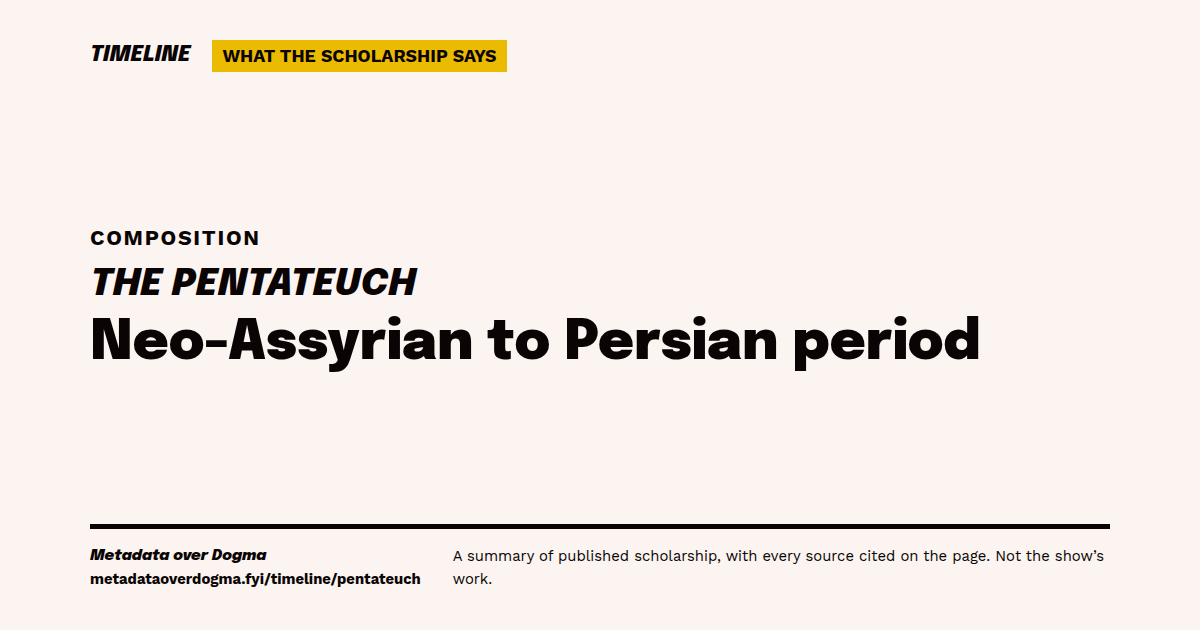
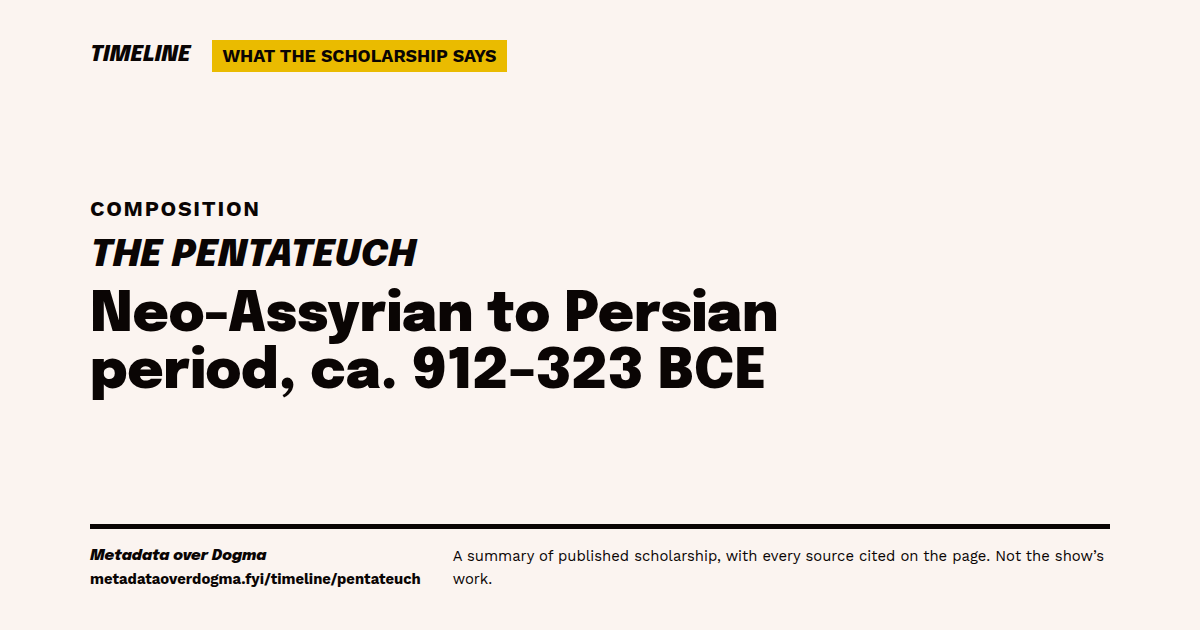
Timeline: every Critical Date names a year; exilic entries sit under Babylonian rule, which names the Exile (#276)
- check:timeline fails a Critical Date display with no year or century.
- Pentateuch and Priestly source displays gain their cited years; cards re-rendered.
- Iron Age/Babylonian/Exile boundary moves to 587 (the fall's own year), so
  entries dated from the fall file under Babylonian rule, not Iron Age.
- An age era that opens with a temple period names it on the axis and pill.
- Era label wraps on phones.

Changed region(s): [[0.0617, 0.3016, 0.8325, 0.6333]]

diff --git a/src/hugo/timeline-minimap.test.ts b/src/hugo/timeline-minimap.test.ts
@@ -128,10 +128,14 @@ function packing(html: string) {
       lane: v["tick-lane"]!,
       overflow: "data-overflow" in t.attrs,
       split: "data-pair-split" in t.attrs,
-      y: Math.min(
-        Math.max(v["tick-at"]!, v["era-start"]! + edge!),
-        v["era-end"]! - edge!,
-      ),
+      // As the template: a band narrower than two edges puts its ticks at its middle.
+      y:
+        v["era-end"]! - v["era-start"]! < 2 * edge!
+          ? (v["era-start"]! + v["era-end"]!) / 2
+          : Math.min(
+              Math.max(v["tick-at"]!, v["era-start"]! + edge!),
+              v["era-end"]! - edge!,
+            ),
     };
   });
   const shared: string[] = [];
@@ -280,15 +284,17 @@ describe.skipIf(!hasHugo)("Timeline minimap", () => {
       ["david-and-solomon", 0, 0],
       ["deuteronomy", 9, 5],
       ["judges-dtr", 0, 0],
-      ["fall-of-jerusalem", 1, 1],
-      ["lamentations", 2, -1],
-      ["priestly-genesis-1", 3, 2],
+      // The three from 587 BCE open Babylonian rule (#276), a band narrower
+      // than two edges, so they sit at its middle, clear of Judges.
+      ["fall-of-jerusalem", 0, 0],
+      ["lamentations", 1, 1],
+      ["priestly-genesis-1", 2, -1],
       // Daniel's pair (540 and 167 BCE) is clear of Deuteronomy's corridor,
       // so it shares place 5.
       ["daniel-tradition", 9, 5],
       // Isaiah 56–66 (515 BCE) is in the Persian era (#256), nudged in from
       // its edge at 539 BCE, clear of Judges (622 BCE) and the three at 587
-      // BCE in the Iron Age: the centre place is free.
+      // BCE in Babylonian rule: the centre place is free.
       ["isaiah-56-66", 0, 0],
       ["daniel", 9, 5],
     ]);
@@ -364,18 +370,19 @@ describe.skipIf(!hasHugo)("Timeline minimap", () => {
       ["era-5000-bce", "5000–3000 BCE"],
       ["era-bronze-age", "Bronze Age ca. 3000–1200 BCE"],
       ["era-iron-age", "Iron Age ca. 1200–586 BCE"],
-      ["era-babylonian", "Babylonian rule 587 or 586–539 BCE"],
+      // The Exile starts with Babylonian rule, so its heading names it (#276).
+      ["era-babylonian", "Babylonian rule 587 or 586–539 BCE Exile"],
       ["era-persian", "Persian 539–332 BCE"],
       ["era-hellenistic", "Hellenistic 332–63 BCE"],
       ["era-roman", "Roman from 63 BCE"],
     ]);
     // An entry is in the era whose years hold its placement year: the fall of
-    // Jerusalem (587 BCE) closes the Iron Age (to 586); Daniel (167 BCE) is Hellenistic.
+    // Jerusalem (587 BCE) opens Babylonian rule (from 587, #276); Daniel (167 BCE) is Hellenistic.
     const eraOf = (id: string) =>
       select(page, `.timeline-minimap__spy a[href="#${id}"]`)[0]?.attrs[
         "data-entry-era"
       ];
-    expect(eraOf("fall-of-jerusalem")).toBe("era-iron-age");
+    expect(eraOf("fall-of-jerusalem")).toBe("era-babylonian");
     expect(eraOf("isaiah-56-66")).toBe("era-persian");
     expect(eraOf("daniel")).toBe("era-hellenistic");
   });
@@ -404,12 +411,12 @@ describe.skipIf(!hasHugo)("Timeline minimap", () => {
       {
         era: "era-iron-age",
         start: fixtureAt(-1200),
-        end: fixtureAt(-586),
+        end: fixtureAt(-587),
         compressed: false,
       },
       {
         era: "era-babylonian",
-        start: fixtureAt(-586),
+        start: fixtureAt(-587),
         end: fixtureAt(-539),
         compressed: false,
       },
@@ -513,7 +520,7 @@ describe.skipIf(!hasHugo)("Timeline minimap", () => {
       "5000 BCE",
       "3000 BCE",
       "1200 BCE",
-      "586 BCE",
+      "587 BCE",
       "539 BCE",
       "332 BCE",
       "63 BCE",
@@ -786,7 +793,7 @@ describe.skipIf(!hasHugo)("Timeline minimap", () => {
 
     // The arc joins the span's middle to the dot: at its year, in its band
     // and in its slot, which the setting carries too, so the span follows a
-    // dot shifted along its row (#175): Lamentations' dot is in slot 2.
+    // dot shifted along its row (#175): Lamentations' dot is in slot 1.
     const arc = vars(
       select(page, '[data-setting="daniel"] .timeline-minimap__setting-arc')[0],
     );
@@ -808,8 +815,8 @@ describe.skipIf(!hasHugo)("Timeline minimap", () => {
         "tick-slot": slot!,
       });
     }
-    expect(vars(settings[0])["tick-slot"]).toBe(2);
-    expect(vars(settings[0])["tick-lane"]).toBe(-1);
+    expect(vars(settings[0])["tick-slot"]).toBe(1);
+    expect(vars(settings[0])["tick-lane"]).toBe(1);
   });
 
   test("the minimap script loads once, from the footer scripts, not inside the minimap", () => {

diff --git a/hugo/layouts/partials/timeline-eras.html b/hugo/layouts/partials/timeline-eras.html
@@ -8,12 +8,14 @@
   after the last, if it ends) is an era named only by its years. The age
   periods must meet end to start, oldest first: a gap or overlap fails the
   build.
-  Returns a slice of dict {label, dates, period, from, to, compressed, items},
+  Returns a slice of dict {label, dates, period, from, to, compressed, items,
+  opens},
   oldest first: label is the period's name or, for a span with no period, its
   years ("5000–3000 BCE"); dates is the period's display dates ("" for a span);
   period its id. compressed marks the span before the first period, which the
   minimap may draw short. items keep placement order. Empty when nothing is
-  placed.
+  placed. opens lists the temple-track periods that start where a period era
+  starts ("Exile" with Babylonian rule), so the axis names them (#276).
   */
 -}}
 {{- $placed := . -}}
@@ -28,6 +30,7 @@
   {{- $start := int (mul (math.Floor (div (float (math.Min $years)) $wide)) $wide) -}}
   {{- $end := int (mul (add (math.Floor (div (float (math.Max $years)) $narrow)) 1) $narrow) -}}
   {{- $ages := sort (where (hugo.Data.timeline.periods | default slice) "track" "age") "from" -}}
+  {{- $temples := where (hugo.Data.timeline.periods | default slice) "track" "temple" -}}
   {{- $bounds := slice -}}
   {{- $at := $start -}}
   {{- range $i, $p := $ages -}}
@@ -69,7 +72,11 @@
         {{- $items = $items | append . -}}
       {{- end -}}
     {{- end -}}
-    {{- $eras = $eras | append (dict "label" $label "dates" (.dates | default "") "period" (.period | default "") "from" $from "to" $to "compressed" (.compressed | default false) "items" $items) -}}
+    {{- $opens := slice -}}
+    {{- if .period -}}
+      {{- $opens = where $temples "from" $from -}}
+    {{- end -}}
+    {{- $eras = $eras | append (dict "label" $label "dates" (.dates | default "") "period" (.period | default "") "from" $from "to" $to "compressed" (.compressed | default false) "items" $items "opens" $opens) -}}
   {{- end -}}
 {{- end -}}
 {{- return $eras -}}

diff --git a/hugo/layouts/partials/timeline-minimap.html b/hugo/layouts/partials/timeline-minimap.html
@@ -125,7 +125,7 @@
   {{- $eraEnd := partial "inline/timeline-minimap-at.html" (dict "axis" $axis "year" .to) -}}
   {{- /* The band's start year, for the rail's label column: 1200 BCE, 1 CE. With its era: a period may run across year 0 (#256). */ -}}
   {{- $startYear := cond (lt (int .from) 0) (printf "%d BCE" (sub 0 (int .from))) (printf "%d CE" (cond (eq (int .from) 0) 1 (int .from))) -}}
-  {{- $bands = $bands | append (dict "id" $eraId "label" .label "dates" .dates "start" $eraStart "end" $eraEnd "empty" (not .items) "compressed" .compressed "startYear" $startYear) -}}
+  {{- $bands = $bands | append (dict "id" $eraId "label" .label "dates" .dates "start" $eraStart "end" $eraEnd "empty" (not .items) "compressed" .compressed "startYear" $startYear "opens" .opens) -}}
   {{- range .items -}}
     {{- $p := .page.Params -}}
     {{- $date := "" -}}
@@ -344,6 +344,10 @@
         <span class="timeline-minimap__now" data-now="{{ .id }}"
           ><b>{{ .label }}</b>{{ with .dates }}
             <span class="timeline-minimap__now-dates"> {{ . }}</span>
+          {{ end }}{{ range .opens }}
+            <span class="timeline-minimap__now-dates timeline-era__opens"
+              >{{ .label }}</span
+            >
           {{ end }}</span
         >
       {{- end }}

diff --git a/hugo/assets/css/timeline.css b/hugo/assets/css/timeline.css
@@ -183,6 +183,18 @@
   margin-inline-start: 0.4em;
 }
 
+/* A temple period that starts with the era (#276): after a dot, as quiet as the dates. */
+.timeline-era__opens {
+  color: var(--color-text-muted);
+  font-weight: normal;
+}
+
+.timeline-era__opens::before {
+  content: "·";
+  display: inline-block;
+  margin-inline: 0.4em;
+}
+
 .timeline-era__entries {
   gap: var(--space-s);
 }
@@ -535,9 +547,12 @@
     --axis-at: calc(var(--space-m) / 2);
   }
 
+  /* May wrap: with a temple period named (#276) it can outrun a phone's width. */
   .timeline-era__label {
     margin-inline-start: 0;
+    max-inline-size: 100%;
     translate: none;
+    white-space: normal;
   }
 
   .timeline-entry {

diff --git a/hugo/layouts/partials/timeline-body.html b/hugo/layouts/partials/timeline-body.html
@@ -144,6 +144,12 @@
                 >{{ with .dates }}
                   <span class="timeline-era__dates"> {{ . }}</span>
                 {{ end }}
+                {{- /* A temple period that starts with the era, named so "exilic" has a place on the axis (#276); its dates and cites are under Periods. */ -}}
+                {{ range .opens }}
+                  <a class="timeline-era__opens" href="#period-{{ .id }}"
+                    >{{ .label }}</a
+                  >
+                {{ end }}
               </h2>
               {{ with .items }}
                 <ol class="timeline-era__entries" role="list">

diff --git a/src/hugo/check-timeline.ts b/src/hugo/check-timeline.ts
@@ -201,6 +201,13 @@ function checkEntry(
     errors.push(`${at}: has neither critical nor undated; give one`);
   }
 
+  // A reader places a card by its year or century, not a period name alone (#276).
+  if (entry.critical && !/\d/.test(entry.critical.display)) {
+    errors.push(
+      `${at}: critical display "${entry.critical.display}" names no year or century; add the cited years`,
+    );
+  }
+
   for (const [field, target] of links(entry)) {
     if (!entries.has(target)) {
       errors.push(`${at}: ${field} "${target}" names no entry`);

diff --git a/src/hugo/check-timeline.test.ts b/src/hugo/check-timeline.test.ts
@@ -194,6 +194,12 @@ describe("checkTimeline", () => {
     expect(await check("published-undated")).toEqual([]);
   });
 
+  test("fails a Critical Date whose display names no year or century (#276)", async () => {
+    expect(await check("critical-no-year")).toEqual([
+      `timeline/book: critical display "Exilic period" names no year or century; add the cited years`,
+    ]);
+  });
+
   test("a Critical Date with no precision passes", async () => {
     expect(await check("critical-no-precision")).toEqual([]);
   });

diff --git a/hugo/assets/css/timeline-minimap.css b/hugo/assets/css/timeline-minimap.css
@@ -405,6 +405,11 @@
   margin-inline-start: 0.4em;
 }
 
+/* A temple period the era opens (#276): its "·" (timeline.css) carries the space. */
+.timeline-minimap__now-dates.timeline-era__opens {
+  margin-inline-start: 0;
+}
+
 .timeline-minimap__now {
   -webkit-box-orient: vertical;
   display: none;

diff --git a/hugo/content/timeline/pentateuch.md b/hugo/content/timeline/pentateuch.md
@@ -18,11 +18,11 @@ watch:
     Wellhausen,
   ]
 critical:
-  display: "Neo-Assyrian to Persian period"
+  display: "Neo-Assyrian to Persian period, ca. 912–323 BCE"
   from: -912
   to: -323
   precision: period
-  note: "The dates are for the whole process of composition and editing, with the final collection at its end. Schmid gives a span from the 9th or 8th century to the 4th century BCE for the composition of the Torah, and says the Pentateuch seems to be, in essence, pre-Hellenistic. Schorch writes that many scholars agree its text was completed, more or less in the version known today, in the Persian period, a conclusion originally drawn mainly from literary and religious history that received further support from text-historical study of the Dead Sea Scrolls. Ska says many scholars agree that the Pentateuch as such was composed late, in the Persian period; he adds that some of its elements come from the pre-exilic period. Hayes puts its final form, probably, in the exilic to post-exilic periods. The Encyclopaedia Judaica entry has the addition of Genesis through Numbers accomplished by the mid-5th century BCE."
+  note: "The dates are for the whole process of composition and editing, with the final collection at its end. Nihan and Rhyder date that process from the Neo-Assyrian period (ca. 912–612 BCE) to the Persian period (ca. 538–323 BCE). Schmid gives a span from the 9th or 8th century to the 4th century BCE for the composition of the Torah, and says the Pentateuch seems to be, in essence, pre-Hellenistic. Schorch writes that many scholars agree its text was completed, more or less in the version known today, in the Persian period, a conclusion originally drawn mainly from literary and religious history that received further support from text-historical study of the Dead Sea Scrolls. Ska says many scholars agree that the Pentateuch as such was composed late, in the Persian period; he adds that some of its elements come from the pre-exilic period. Hayes puts its final form, probably, in the exilic to post-exilic periods. The Encyclopaedia Judaica entry has the addition of Genesis through Numbers accomplished by the mid-5th century BCE."
   cites:
     - source: nihan-rhyder-bo-torah
       locator: "opening paragraph"

diff --git a/CONTEXT.md b/CONTEXT.md
@@ -224,6 +224,7 @@ _Avoid_: Citation, snippet source
 - The **Timeline**'s axis runs down the middle, with rows on both sides; side means nothing, and a **Tradition Date** is told apart by its card's look and its holder's name, never by its side (#254, 2026-11-27, reversing #162's two lanes).
 - A **Timeline Entry** with both dates shows its **Tradition Date** at that date's own year, in its own row, and the two cards link to each other; when the two dates' middles are under 30 years apart, the **Tradition Date** stays beside the entry (#214, 2026-11-26, reversing #162's beside-the-entry display).
 - The **Timeline** is divided by historical periods, on its axis and its minimap, its years secondary: the age periods are its eras, after one span named by its years for the time before them (#256, 2026-11-27, replacing round-year eras); each period's boundaries are cited to Scholarly or Reference **External Sources**, as a **Critical Date** is, and labelled in those sources' terms, never in a contested one ("Monarchy") (#255, 2026-11-27).
+- A **Critical Date**'s display names a year or century, from a quote already cited (the entry's, its anchor's, or a period's); a period name alone ("Exilic or post-exilic period") is not enough, and `check:timeline` fails one (#276, 2026-11-28). An age period that opens with a temple-track period (Babylonian rule with the Exile) names it on the axis, and the boundary at the fall of Jerusalem is 587, so entries dated from the fall sit in the period it opens (#276, 2026-11-28).
 - A **Timeline Entry** shows a **Tradition Date** only when one of its **Trigger Claims** states the tradition's side.
 - A **Timeline Entry** is worded for what its sources date, even when that is narrower than the **Trigger Claim**.
 - Only a composition **Timeline Entry** has a **Setting**, cited to Scholarly or Reference **External Sources** only and worded no more strongly than they are (#167 §4).

diff --git a/.claude/skills/create-timeline-entry/SKILL.md b/.claude/skills/create-timeline-entry/SKILL.md
@@ -27,7 +27,7 @@ Done when every Trigger Claim has Episode, Speaker, `HH:MM:SS.mmm` timestamp, ve
 
 Find External Sources readable in full at a public URL; reuse ids from `hugo/data/external-sources.yaml` first. Dispatch research agents per side (critical, tradition, setting), each saving every fetched page into its own scratch folder and copying quotes only from that saved text. Then decide the entry's shape from what the sources say:
 
-- **`critical`**: a Scholarly or Reference source dates the subject outright. Word `display` and the title for what it dates, even when narrower than the Trigger Claim; a source's dual form ("722/721") is shown as given; a split ("587 or 586") is shown with each side cited.
+- **`critical`**: a Scholarly or Reference source dates the subject outright. Word `display` and the title for what it dates, even when narrower than the Trigger Claim; a source's dual form ("722/721") is shown as given; a split ("587 or 586") is shown with each side cited. `display` always names a year or century (`check:timeline` fails a bare period name, #276): a period's years come from a cited quote, or, for an anchored entry, from its anchor's date ("Exilic or post-exilic period, from 587 or 586 BCE").
 - **`undated`**: the sources date it only on a condition, or not at all. The statement keeps the condition inside it and is no stronger than its sources.
 - **`tradition`**: only when a Trigger Claim states the tradition's side and a Tradition-class source gives a date; `holder` uses that source's own words for itself.
 - **`setting`**: composition entries only, cited to Scholarly or Reference sources.

diff --git a/src/hugo/__fixtures__/timeline/critical-no-year/hugo/content/timeline/book.md b/src/hugo/__fixtures__/timeline/critical-no-year/hugo/content/timeline/book.md
@@ -1,0 +1,27 @@
+---
+title: "The Book"
+entryKind: composition
+draft: false
+sourcesRead: 2026-11-23
+related: { books: [], tags: [], topics: [] }
+watch: [book]
+critical:
+  display: "Exilic period"
+  anchor: fall
+  precision: period
+  open: true
+  cites:
+    - source: reference-lecture
+      locator: "ch. 1 [00:00:00]"
+      quote: "It reached its final form in the exilic period."
+      read: 2026-11-22
+tradition:
+  display: "540 BCE"
+  from: -540
+  holder: "Example Ministries, an evangelical ministry"
+  cites:
+    - source: tradition-page
+      locator: "Date of Writing"
+      quote: "The book was written in 540 B.C."
+      read: 2026-11-22
+---
